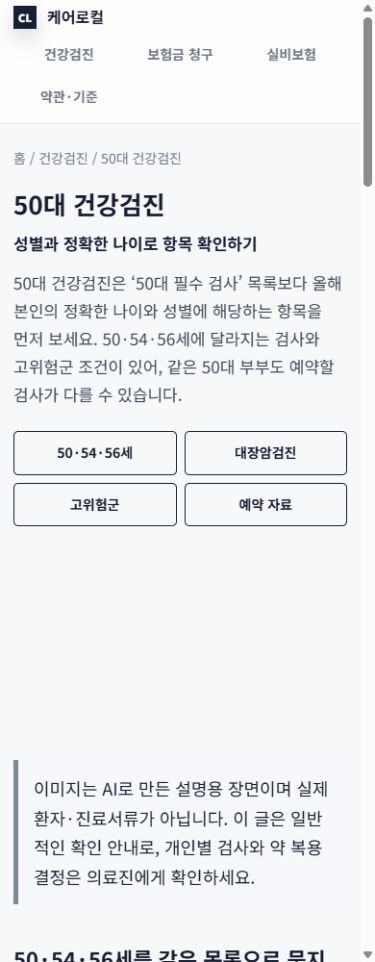
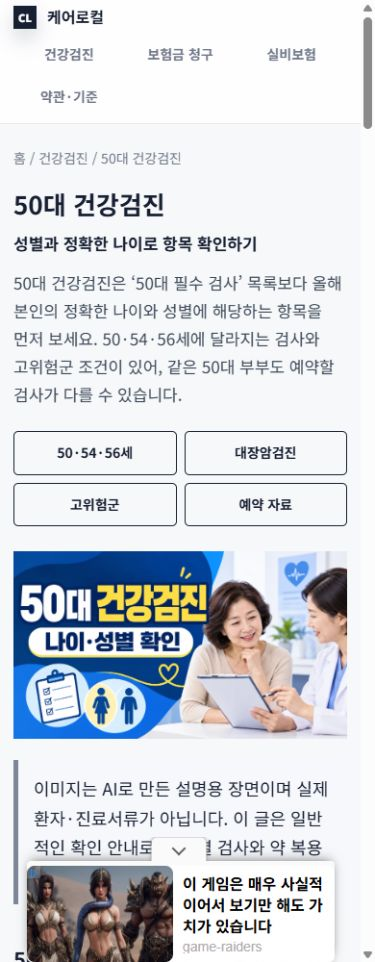
Record verification of ten health checkup publications

Changed region(s): [[0.0293, 0.5613, 0.9387, 0.7796], [0.0587, 0.8732, 0.9093, 1.0], [0.968, 0.1247, 0.9973, 0.2183]]

diff --git a/docs/CHECKUP_SERIES_PUBLICATION_2026-10-06.md b/docs/CHECKUP_SERIES_PUBLICATION_2026-10-06.md
@@ -1,0 +1,43 @@
+# 건강검진 10개 순차 발행 완료 — 2026-10-06
+
+사용자가 승인 없이 20대부터 실비 청구까지 10개를 순서대로 발행하도록 명시적으로 요청했습니다. 각 글은 작성·공식 출처 확인·로컬 검증·커밋 및 배포·공개 화면 확인을 마친 뒤 다음 글로 진행했습니다.
+
+## 공개 글
+
+| 순서 | 제목과 공개 주소 | 콘텐츠 커밋 | 검증 기록 |
+| --- | --- | --- | --- |
+| 1 | [20대 건강검진, 처음 예약할 때 확인할 항목과 비용](https://hospital.hbuby.com/checkups/health-checkup-20s) | 53b8ea4 | [개별 기록](CHECKUP_01_PUBLICATION_2026-10-06.md) |
+| 2 | [30대 건강검진, 국가검진과 추가 검사를 어떻게 구분할까?](https://hospital.hbuby.com/checkups/health-checkup-30s) | b0e0b16 | [개별 기록](CHECKUP_02_PUBLICATION_2026-10-06.md) |
+| 3 | [40대 건강검진, 일반검진과 암검진 대상 확인 방법](https://hospital.hbuby.com/checkups/health-checkup-40s) | b50b979 | [개별 기록](CHECKUP_03_PUBLICATION_2026-10-06.md) |
+| 4 | [50대 건강검진, 성별·정확한 나이에 따라 달라지는 항목 확인](https://hospital.hbuby.com/checkups/health-checkup-50s) | 10fbd49 | [개별 기록](CHECKUP_04_PUBLICATION_2026-10-06.md) |
+| 5 | [60대 이상 건강검진, 검진 항목과 복용약·이전 결과 준비 방법](https://hospital.hbuby.com/checkups/health-checkup-60plus) | e9206f5 | [개별 기록](CHECKUP_05_PUBLICATION_2026-10-06.md) |
+| 6 | [2026 건강검진 대상자 조회와 검진기관 찾는 방법](https://hospital.hbuby.com/checkups/health-checkup-target-2026) | 0c09c2a | [개별 기록](CHECKUP_06_PUBLICATION_2026-10-06.md) |
+| 7 | [작년 건강검진을 못 받았다면? 추가 신청 방법](https://hospital.hbuby.com/checkups/missed-health-checkup-application) | 7c5e381 | [개별 기록](CHECKUP_07_PUBLICATION_2026-10-06.md) |
+| 8 | [건강검진 금식과 복용약, 예약 병원에 확인할 사항](https://hospital.hbuby.com/checkups/health-checkup-fasting-medication) | 8260eda | [개별 기록](CHECKUP_08_PUBLICATION_2026-10-06.md) |
+| 9 | [건강검진 질환의심 판정 후 확진검사, 대상·기한·비용 확인](https://hospital.hbuby.com/checkups/health-checkup-confirmatory-test) | 9190a9c | [개별 기록](CHECKUP_09_PUBLICATION_2026-10-06.md) |
+| 10 | [건강검진 후 재검사·정밀검사 비용, 실비 청구 전 확인할 사항](https://hospital.hbuby.com/silbi/checkup-followup-test-insurance) | 038cf11 | [개별 기록](CHECKUP_10_PUBLICATION_2026-10-06.md) |
+
+전체 목록: https://hospital.hbuby.com/checkups/
+
+## 완료한 검증
+
+- 10개 글의 공개 제목, canonical, 이미지 3장, FAQ 동작, 표 가로 스크롤, 내부 링크를 확인했습니다.
+- 각 글을 390×1000, 360×800 모바일 화면 및 1280×900 PC 화면에서 확인했습니다.
+- 글별로 새 이미지를 3장씩 생성해 총 30개 WebP를 사용했습니다. 파일 경로와 콘텐츠 해시가 모두 다르며 각 크기는 1672×941입니다. 원본 생성 경로와 프롬프트는 개별 기록에 남겼습니다.
+- 건강검진 허브에 연령별 5개와 조회·신청·결과·실비 5개를 요청 순서로 연결했습니다. 기존 관련 글과 실비 허브의 유입 링크도 확인했습니다.
+- 전체 검사 결과: HTML 181개 내부 링크 검사 통과, sitemap 179개 URL 중복 및 canonical 검사 통과, canonical 단위 검사 5개와 분석 스크립트 검사 10개 통과. 글 목록은 154개입니다.
+- 순수 건강검진 글에는 보험 청구 CTA를 넣지 않았습니다. 마지막 실비 글의 보험사 안내 CTA 2개, 상담 링크 및 개인정보 안내를 공개 화면에서 확인했습니다.
+
+## 출처 적용 시 유의한 구분
+
+- 국민건강보험공단과 보건복지부 자료를 우선 확인하고 연령·성별·주기·고위험군 조건을 분리했습니다.
+- 확진검사 기한과 암검진 후속 검사 기한을 구분했습니다. C형간염 확인진단 지원은 별도의 신청·정산 절차로 설명했습니다.
+- 금식·복용약 안내는 공단과 병원 자료를 확인하고 예약 기관 및 처방 의료진의 개별 지시를 확인하도록 작성했습니다.
+- 실비 글에서 2018년 특정 보험사 약관은 과거 상품의 사례로 명시했습니다. 현재 모든 계약에 적용되는 기준으로 일반화하지 않았습니다. 필요 서류도 보험사 예시와 개별 계약 확인을 구분했습니다.
+
+## 공개 화면 증빙
+
+- 글별 모바일: `checkup-01-public-390-2026-10-06.png`부터 `checkup-10-public-390-2026-10-06.png`
+- 전체 목록: `checkup-series-hub-public-2026-10-06.png`
+
+공개 배포와 화면 검증을 완료했습니다. 검색엔진 색인, 순위, 유입 증가는 확인하지 않았으며 색인 요청이나 광고 설정 변경은 수행하지 않았습니다. 기존 사용자 변경인 `docs/POSTING_GUIDELINES.md`와 기존 미추적 파일은 발행 커밋에 포함하지 않았습니다.

diff --git a/docs/CHECKUP_10_PUBLICATION_2026-10-06.md b/docs/CHECKUP_10_PUBLICATION_2026-10-06.md
@@ -26,4 +26,7 @@
   - 프롬프트: Use case: photorealistic-natural. Wide 16:9. Navy vivid blue white and yellow accents. No prices diagnoses patient information brand logos or watermark. Korean adult organizing generic receipt and detailed expense sheet while consulting insurance official support on phone at home. Papers and phone only abstract grey bars and blank icons, no readable words numbers real app or personal data. Calm realistic scene.
 
 ## 공개 검증
-배포 후 갱신합니다.
+- 콘텐츠 커밋 038cf11, main push 및 공개 페이지 실제 반영 확인.
+- 공개 390/360/1280 화면 확인. 가로 넘침 없음. 이미지 3장 로딩·표 스크롤·FAQ 펼침 확인.
+- 공개 제목·본문·self-canonical 확인. 화면 증거: docs/checkup-10-public-390-2026-10-06.png.
+- 실제 검색 색인·검색 유입은 미확인. 기존 자동 광고가 표시될 수 있으며 광고 설정은 변경하지 않음.
